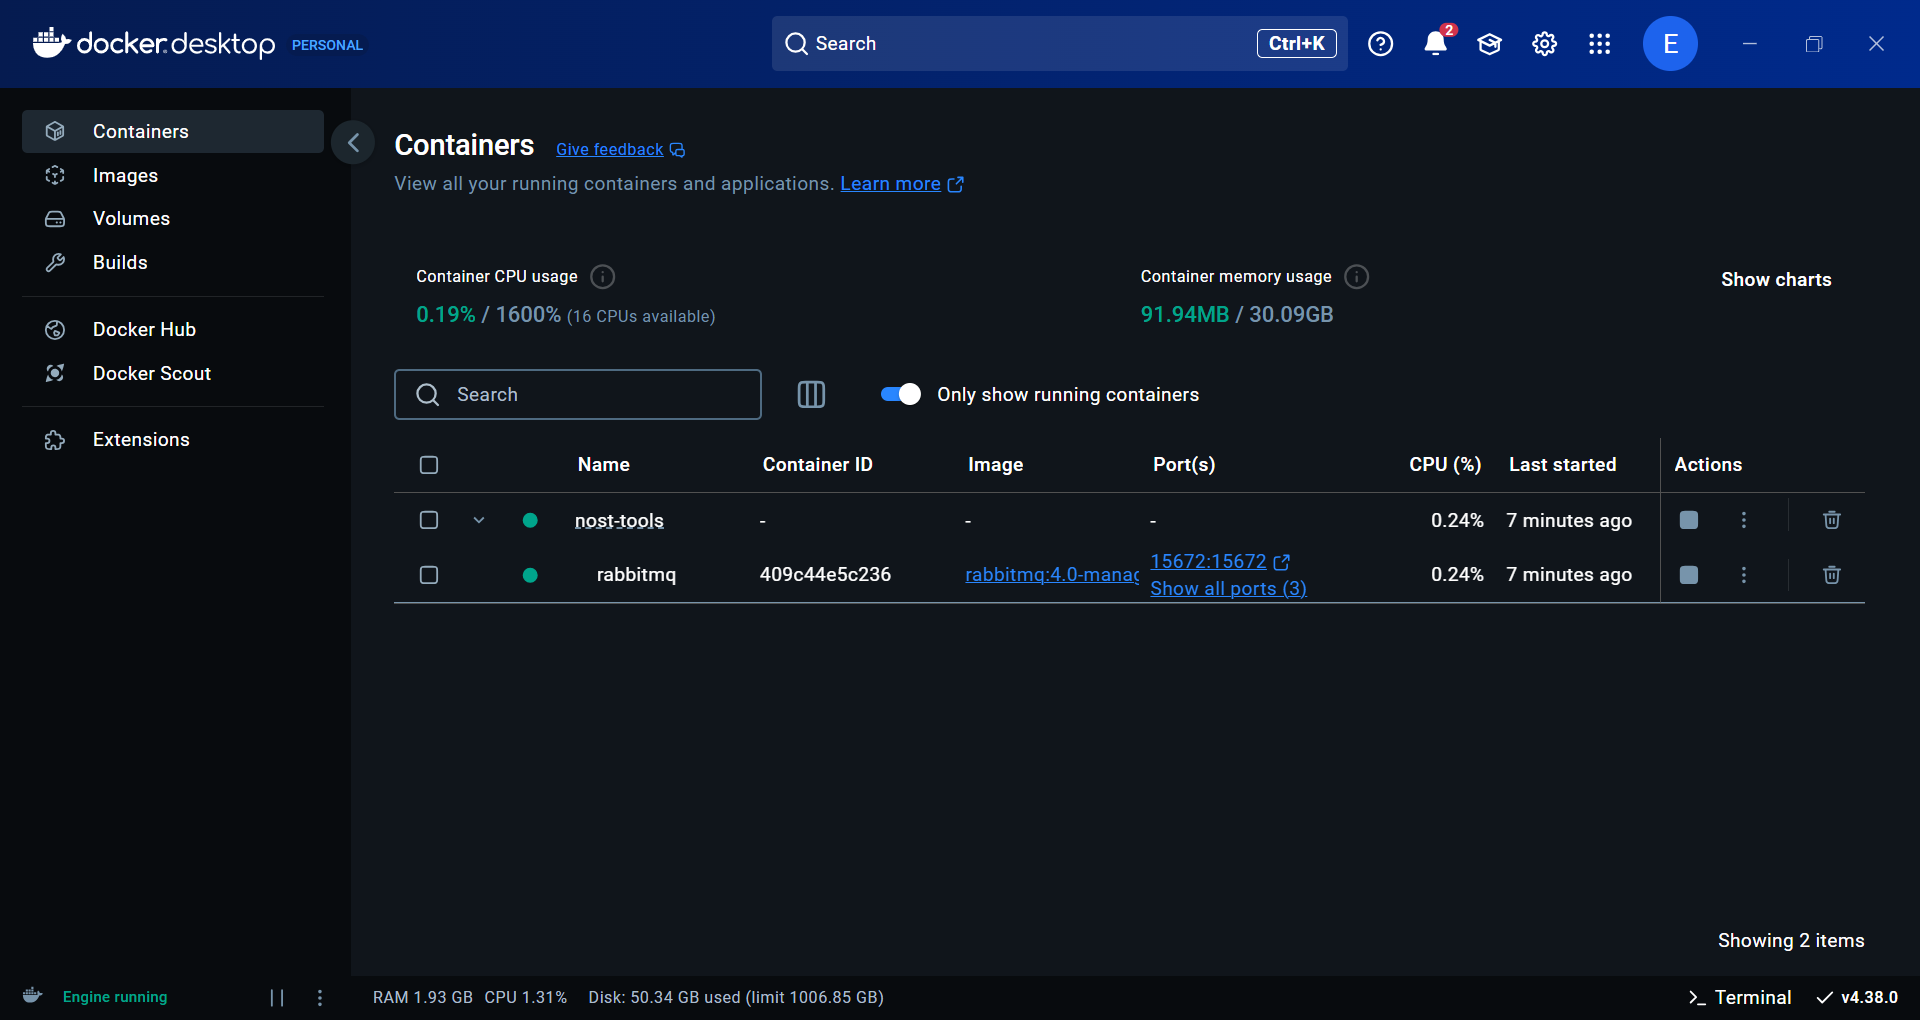
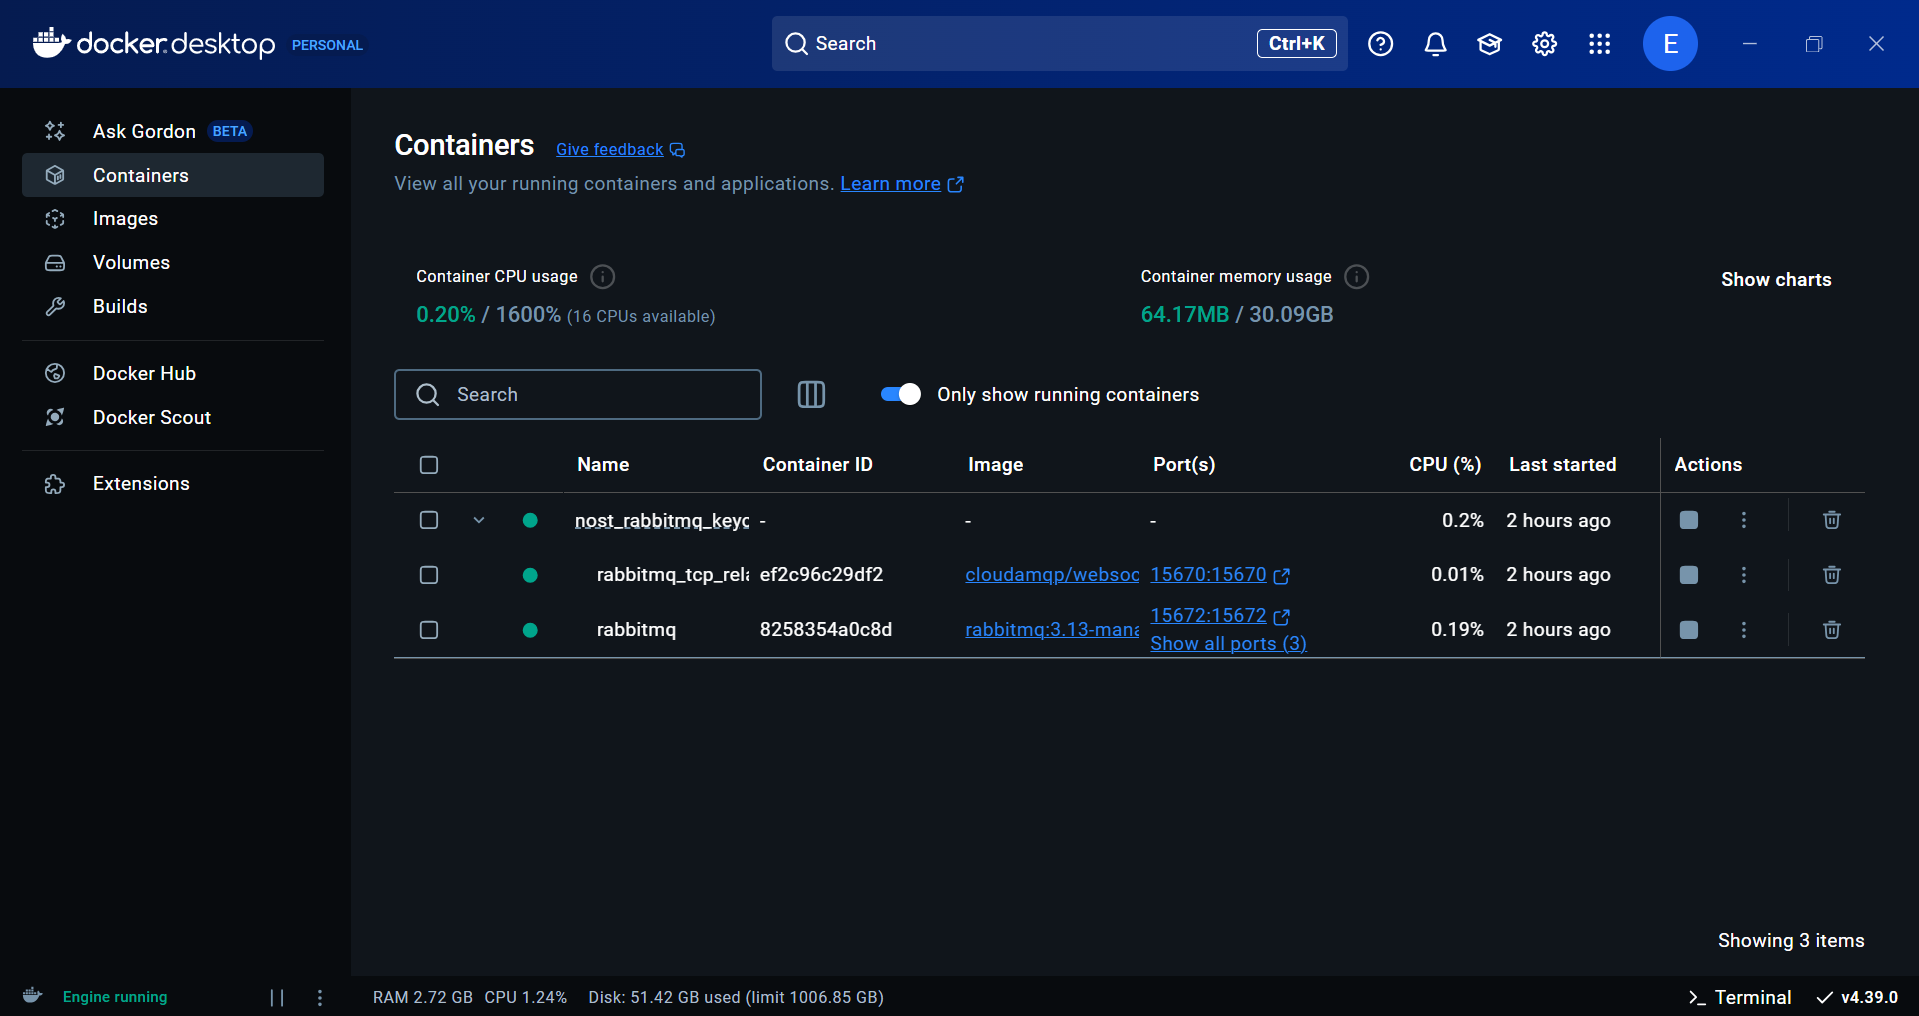
update local host broker

diff --git a/docs/source/operators_guide/modules/localBroker.rst b/docs/source/operators_guide/modules/localBroker.rst
@@ -46,7 +46,7 @@ Open an elevated command prompt and change directories to the location of this `
     - Volume "rabbitmq_data"         Created                         ##.#s
     - Container rabbitmq             Started                         ##.#s
    
-If actively running the Docker Desktop client, the Containers tab should include a single container. Expanding the **rabbitmq** container shows a single active node:
+If actively running the Docker Desktop client, the Containers tab should include a two containers. Expanding the **rabbitmq** container shows two active nodes, rabbitmq and rabbitmq_tcp_relay:
 
 .. image:: Docker_Desktop_Containers_RabbitMQ.png
     :width: 800
